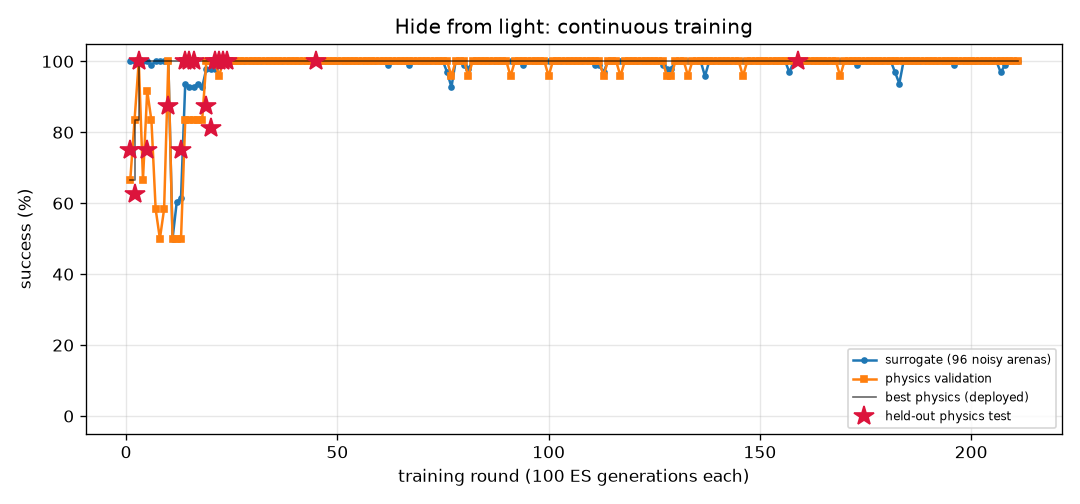
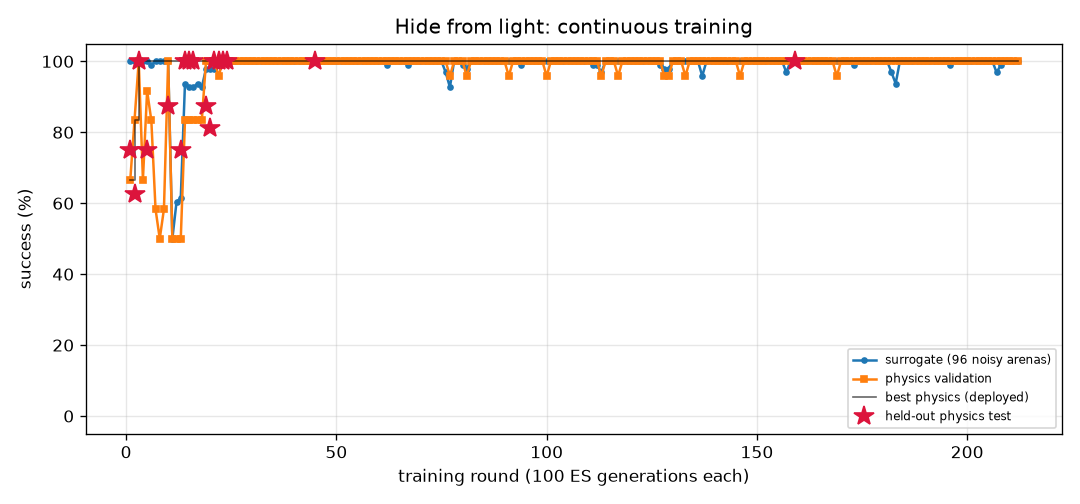
FlyLab: daily review 2026-10-14 - 7/7 optimal, all fresh checks 100%

diff --git a/projects/09_flylab/training/light_avoid/REPORT.md b/projects/09_flylab/training/light_avoid/REPORT.md
@@ -1,14 +1,14 @@
 # Hide from light (`light_avoid`) — training report
 
-*Auto-generated by `train_brains.py`, last updated 2026-10-14T13:09:53.*
+*Auto-generated by `train_brains.py`, last updated 2026-10-14T21:17:55.*
 
 ![curve](curve.png)
 
 | | |
 |---|---|
-| rounds | 211 |
-| ES generations | 21100 |
-| physics runs | 5336 |
+| rounds | 212 |
+| ES generations | 21200 |
+| physics runs | 5360 |
 | status | **optimal** |
 | best brain | round 159: physics validation **100%** on 24 arenas, surrogate 100% |
 | held-out physics test | **100%** on 32 unseen arenas (95% CI 89%-100%) (errors: [14.4, 56.1, 58.0, 57.9, 57.5, 14.0, 14.4, 56.6, 56.8, 13.3, 14.1, 56.6, 57.6, 13.1, 57.3, 55.9, 57.2, 55.0, 55.2, 53.9, 55.2, 12.4, 53.8, 53.7, 14.1, 13.7, 55.0, 57.8, 56.2, 13.1, 52.8, 56.5]) |
@@ -17,7 +17,6 @@ Physics error per arena: mm gained away from source (> 6 without first approachi
 
 | round | level | gens | sigma | surrogate | physics val | val errors | test | note |
 |---:|---:|---:|---:|---:|---:|---|---:|---|
-| 172 | 3 | 17200 | 0.024 | 100% | 100% | [52.7, 54.4, 54.3, 52.6, 53.3, 52.8, 53.3, 14.5, 49.5, 13.3, 52.7, 53.0, 14.4, 54.1, 54.4, 53.0, 14.2, 53.8, 54.7, 14.4, 51.7, 52.8, 53.0, 52.3] |  |  |
 | 173 | 3 | 17300 | 0.024 | 99% | 100% | [50.3, 53.4, 53.1, 51.0, 52.9, 50.6, 51.8, 14.5, 12.8, 13.4, 51.9, 52.8, 14.4, 53.1, 53.3, 52.3, 14.2, 53.5, 53.7, 14.4, 51.7, 51.8, 51.5, 52.2] |  |  |
 | 174 | 3 | 17400 | 0.025 | 100% | 100% | [38.2, 41.0, 40.2, 39.3, 44.0, 40.5, 37.6, 14.5, 39.6, 33.2, 39.6, 44.3, 14.4, 40.2, 40.7, 40.5, 14.2, 44.2, 41.4, 14.4, 37.9, 39.9, 37.0, 44.0] |  |  |
 | 175 | 3 | 17500 | 0.024 | 100% | 100% | [55.4, 60.8, 60.4, 56.9, 61.2, 57.2, 59.0, 14.5, 57.7, 12.7, 59.1, 61.0, 14.4, 59.9, 60.5, 55.4, 14.2, 61.6, 60.9, 14.4, 58.3, 59.8, 58.8, 60.5] |  | restart from best |
@@ -57,3 +56,4 @@ Physics error per arena: mm gained away from source (> 6 without first approachi
 | 209 | 3 | 20900 | 0.025 | 100% | 100% | [52.5, 57.5, 57.3, 54.1, 57.7, 54.2, 55.9, 14.5, 53.3, 13.5, 57.3, 57.5, 14.4, 55.5, 57.4, 53.2, 14.2, 58.1, 57.8, 14.4, 55.5, 56.9, 55.6, 57.0] |  |  |
 | 210 | 3 | 21000 | 0.024 | 100% | 100% | [50.1, 51.7, 51.2, 47.8, 52.0, 47.9, 49.8, 14.5, 48.2, 13.3, 51.1, 52.0, 14.4, 51.2, 51.3, 47.2, 14.2, 52.3, 51.6, 14.4, 47.4, 51.3, 49.7, 51.5] |  |  |
 | 211 | 3 | 21100 | 0.024 | 100% | 100% | [52.9, 55.4, 55.4, 53.3, 52.2, 53.0, 55.2, 14.5, 50.7, 13.4, 53.9, 52.0, 14.4, 54.7, 55.5, 52.9, 14.2, 53.3, 55.5, 14.4, 52.5, 55.4, 55.0, 50.9] |  | restart from best |
+| 212 | 3 | 21200 | 0.024 | 100% | 100% | [53.7, 56.1, 56.0, 54.7, 54.3, 53.8, 55.3, 14.5, 53.3, 13.1, 55.7, 54.3, 14.3, 55.7, 56.1, 53.3, 14.2, 55.2, 56.4, 14.4, 53.1, 55.7, 55.0, 53.3] |  |  |

diff --git a/projects/09_flylab/training/odor_avoid/REPORT.md b/projects/09_flylab/training/odor_avoid/REPORT.md
@@ -1,14 +1,14 @@
 # Escape a bad smell (`odor_avoid`) — training report
 
-*Auto-generated by `train_brains.py`, last updated 2026-10-14T21:05:49.*
+*Auto-generated by `train_brains.py`, last updated 2026-10-14T21:11:45.*
 
 ![curve](curve.png)
 
 | | |
 |---|---|
-| rounds | 473 |
-| ES generations | 47300 |
-| physics runs | 8658 |
+| rounds | 474 |
+| ES generations | 47400 |
+| physics runs | 8682 |
 | status | **optimal** |
 | best brain | round 373: physics validation **100%** on 24 arenas, surrogate 97% |
 | held-out physics test | **97%** on 32 unseen arenas (95% CI 84%-99%) (errors: [62.0, 57.4, 62.6, 61.9, 59.0, 61.6, 56.5, 60.7, 31.7, 60.9, 63.1, 57.1, 61.1, 62.1, 61.5, 60.2, 62.2, 55.2, 62.1, 54.2, 61.3, 62.0, 58.0, 61.9, 59.8, 56.5, 56.3, 56.4, 56.3, 57.7, 61.9, 32.4]) |
@@ -17,7 +17,6 @@ Physics error per arena: mm gained away from source (> 6 without first approachi
 
 | round | level | gens | sigma | surrogate | physics val | val errors | test | note |
 |---:|---:|---:|---:|---:|---:|---|---:|---|
-| 434 | 3 | 43400 | 0.026 | 94% | 100% | [63.4, 56.8, 57.3, 57.5, 62.3, 61.3, 61.8, 45.0, 60.8, 60.7, 61.6, 62.1, 54.7, 57.6, 45.7, 62.3, 62.2, 62.3, 54.7, 56.6, 62.1, 62.0, 57.8, 60.3] |  |  |
 | 435 | 3 | 43500 | 0.028 | 95% | 96% | [62.9, 57.5, 58.5, 60.4, 61.0, 61.1, 62.2, 42.4, 59.9, 37.9, 24.3, 60.6, 51.2, 55.4, 39.5, 61.5, 61.4, 59.4, 54.5, 57.9, 60.6, 62.1, 58.2, 62.7] |  |  |
 | 436 | 3 | 43600 | 0.027 | 97% | 96% | [62.5, 57.3, 57.4, 57.3, 60.1, 52.6, 61.2, 43.6, 59.0, 57.9, 23.7, 59.9, 49.4, 56.7, 37.6, 61.6, 59.3, 60.8, 50.4, 56.1, 59.8, 54.5, 57.4, 53.2] |  |  |
 | 437 | 3 | 43700 | 0.026 | 95% | 96% | [63.1, 54.0, 57.8, 57.6, 59.6, 61.6, 61.0, 34.6, 60.1, 56.6, 21.8, 60.4, 50.8, 55.7, 29.9, 61.4, 60.9, 61.7, 51.8, 53.6, 60.7, 59.6, 57.6, 48.1] |  | restart from best |
@@ -57,3 +56,4 @@ Physics error per arena: mm gained away from source (> 6 without first approachi
 | 471 | 3 | 47100 | 0.027 | 98% | 100% | [63.7, 61.2, 56.0, 58.7, 61.6, 62.1, 62.2, 57.3, 60.8, 60.6, 62.6, 61.9, 55.1, 58.1, 41.3, 62.5, 61.8, 62.2, 55.3, 56.0, 61.9, 60.6, 58.8, 54.7] |  |  |
 | 472 | 3 | 47200 | 0.025 | 97% | 96% | [63.1, 61.7, 53.0, 61.4, 62.1, 62.8, 61.8, 63.5, 61.6, 62.9, 31.6, 61.4, 50.5, 54.9, 40.4, 62.4, 61.7, 62.5, 53.3, 61.1, 61.3, 63.3, 61.6, 63.6] |  |  |
 | 473 | 3 | 47300 | 0.026 | 97% | 100% | [62.5, 61.0, 55.6, 60.5, 61.9, 62.6, 62.3, 63.2, 62.4, 62.5, 53.8, 61.6, 47.0, 55.8, 34.8, 62.2, 61.9, 57.3, 50.3, 60.8, 61.8, 62.8, 60.5, 63.1] |  | restart from best |
+| 474 | 3 | 47400 | 0.026 | 96% | 96% | [63.0, 61.4, 55.2, 61.0, 61.0, 61.9, 61.0, 62.4, 61.6, 61.0, 50.9, 61.0, 49.1, 54.9, 33.6, 60.1, 61.3, 60.6, 52.8, 61.2, 61.2, 62.8, 59.6, 62.8] |  |  |

diff --git a/projects/09_flylab/training/turn/REPORT.md b/projects/09_flylab/training/turn/REPORT.md
@@ -1,14 +1,14 @@
 # Turn in place (`turn`) — training report
 
-*Auto-generated by `train_brains.py`, last updated 2026-10-14T21:08:26.*
+*Auto-generated by `train_brains.py`, last updated 2026-10-14T21:13:02.*
 
 ![curve](curve.png)
 
 | | |
 |---|---|
-| rounds | 437 |
-| ES generations | 43700 |
-| physics runs | 10734 |
+| rounds | 438 |
+| ES generations | 43800 |
+| physics runs | 10758 |
 | status | **optimal** |
 | best brain | round 80: physics validation **100%** on 24 arenas, surrogate 100% |
 | held-out physics test | **97%** on 32 unseen arenas (95% CI 84%-99%) (errors: [1.6, 3.3, 6.3, 3.7, 1.1, 0.4, 2.4, 2.9, 0.1, 2.6, 0.5, 2.7, 1.5, 3.1, 4.5, 0.2, 0.5, 1.1, 2.0, 4.4, 2.8, 3.2, 0.3, 2.2, 0.5, 3.0, 0.3, 5.4, 0.4, 1.0, 4.7, 10.7]) |
@@ -17,7 +17,6 @@ Physics error per arena: deg from target heading (< 20 = success).
 
 | round | level | gens | sigma | surrogate | physics val | val errors | test | note |
 |---:|---:|---:|---:|---:|---:|---|---:|---|
-| 398 | 3 | 39800 | 0.025 | 98% | 75% | [10.8, 9.0, 0.8, 1.8, 1.9, 2.1, 4.3, 9.9, 5.3, 0.1, 3.4, 2.5, 0.0, 5.2, 3.6, 1.3, 4.0, 0.5, 1.4, 0.7, 9.6, 1.0, 1.4, 1.7] |  |  |
 | 399 | 3 | 39900 | 0.025 | 100% | 79% | [4.5, 8.6, 1.7, 2.6, 1.2, 1.8, 3.2, 6.3, 5.0, 1.2, 3.4, 0.7, 0.1, 1.1, 2.3, 0.1, 0.8, 0.8, 0.2, 1.5, 3.6, 0.8, 5.5, 1.0] |  |  |
 | 400 | 3 | 40000 | 0.024 | 100% | 83% | [7.3, 10.7, 0.9, 2.2, 2.5, 4.9, 2.6, 1.6, 1.5, 0.5, 3.1, 2.3, 3.6, 1.0, 3.4, 0.1, 2.9, 0.4, 1.3, 0.2, 7.3, 1.4, 1.8, 3.4] |  | restart from best |
 | 401 | 3 | 40100 | 0.024 | 97% | 88% | [9.7, 12.8, 6.1, 3.6, 4.8, 6.1, 2.3, 6.0, 1.4, 0.3, 3.8, 4.6, 3.3, 3.3, 1.4, 1.1, 4.9, 1.5, 2.3, 3.0, 6.7, 1.9, 3.4, 4.0] |  |  |
@@ -57,3 +56,4 @@ Physics error per arena: deg from target heading (< 20 = success).
 | 435 | 3 | 43500 | 0.025 | 100% | 75% | [0.6, 0.1, 5.5, 0.4, 3.4, 115.6, 5.2, 7.2, 7.0, 0.9, 5.7, 3.0, 0.2, 1.0, 4.0, 3.1, 3.1, 2.4, 2.6, 3.8, 2.0, 1.6, 6.1, 6.2] |  |  |
 | 436 | 3 | 43600 | 0.024 | 100% | 83% | [1.9, 0.2, 3.5, 1.8, 4.5, 4.1, 6.0, 8.7, 6.9, 0.4, 4.2, 2.3, 0.8, 0.5, 5.4, 1.3, 2.1, 1.7, 2.9, 1.1, 0.9, 3.0, 5.9, 4.3] |  | restart from best |
 | 437 | 3 | 43700 | 0.024 | 100% | 79% | [3.5, 5.4, 1.9, 1.2, 2.9, 0.1, 6.3, 5.4, 4.6, 1.3, 3.9, 0.6, 0.4, 3.0, 3.3, 0.2, 0.7, 0.4, 0.8, 2.2, 2.9, 1.1, 5.7, 5.2] |  |  |
+| 438 | 3 | 43800 | 0.024 | 96% | 75% | [9.4, 12.3, 8.1, 0.8, 1.9, 6.6, 3.7, 4.3, 2.6, 1.7, 2.1, 4.7, 4.7, 5.2, 0.2, 2.4, 5.0, 1.1, 2.2, 1.8, 6.7, 1.4, 3.0, 2.0] |  |  |

diff --git a/projects/09_flylab/training/TRAINING.md b/projects/09_flylab/training/TRAINING.md
@@ -1,15 +1,15 @@
 # FlyLab brains — continuous training log
 
-*Auto-generated by `train_brains.py`, last updated 2026-10-14T21:08:26.*
+*Auto-generated by `train_brains.py`, last updated 2026-10-14T21:17:55.*
 
 Every skill has its own brain and its own training process: surrogate ES rounds, physics validation in MuJoCo, keep-the-best selection, and a held-out physics test that is never used for selection. See each skill's report for its full round-by-round history. Mastery is progressive: passing a level (100% physics validation, >=95% surrogate) doubles the validation and test arena sets; a brain is **optimal** once it holds up at level 3 (>=95% of 24 validation arenas) AND scores >=90% on the 32 held-out test arenas. Test columns show 95% Wilson confidence intervals.
 
 | skill | rounds | ES generations | physics runs | surrogate | physics val | **physics test** | status |
 |---|---:|---:|---:|---:|---:|---:|---|
 | [Walk forward](walk_forward/REPORT.md) | 92 | 9200 | 2158 | 100% | 100% of 24 | 100% of 32 (CI 89-100%) | **optimal** |
-| [Turn in place](turn/REPORT.md) | 437 | 43700 | 10734 | 100% | 100% of 24 | 97% of 32 (CI 84-99%) | **optimal** |
+| [Turn in place](turn/REPORT.md) | 438 | 43800 | 10758 | 100% | 100% of 24 | 97% of 32 (CI 84-99%) | **optimal** |
 | [Go to a location](goto/REPORT.md) | 86 | 8600 | 1950 | 100% | 100% of 24 | 100% of 32 (CI 89-100%) | **optimal** |
 | [Find food by smell](odor_seek/REPORT.md) | 94 | 9400 | 1590 | 100% | 100% of 24 | 100% of 32 (CI 89-100%) | **optimal** |
-| [Escape a bad smell](odor_avoid/REPORT.md) | 473 | 47300 | 8658 | 97% | 100% of 24 | 97% of 32 (CI 84-99%) | **optimal** |
+| [Escape a bad smell](odor_avoid/REPORT.md) | 474 | 47400 | 8682 | 97% | 100% of 24 | 97% of 32 (CI 84-99%) | **optimal** |
 | [Walk toward light](light_seek/REPORT.md) | 275 | 27500 | 3352 | 100% | 100% of 24 | 100% of 32 (CI 89-100%) | **optimal** |
-| [Hide from light](light_avoid/REPORT.md) | 211 | 21100 | 5336 | 100% | 100% of 24 | 100% of 32 (CI 89-100%) | **optimal** |
+| [Hide from light](light_avoid/REPORT.md) | 212 | 21200 | 5360 | 100% | 100% of 24 | 100% of 32 (CI 89-100%) | **optimal** |
